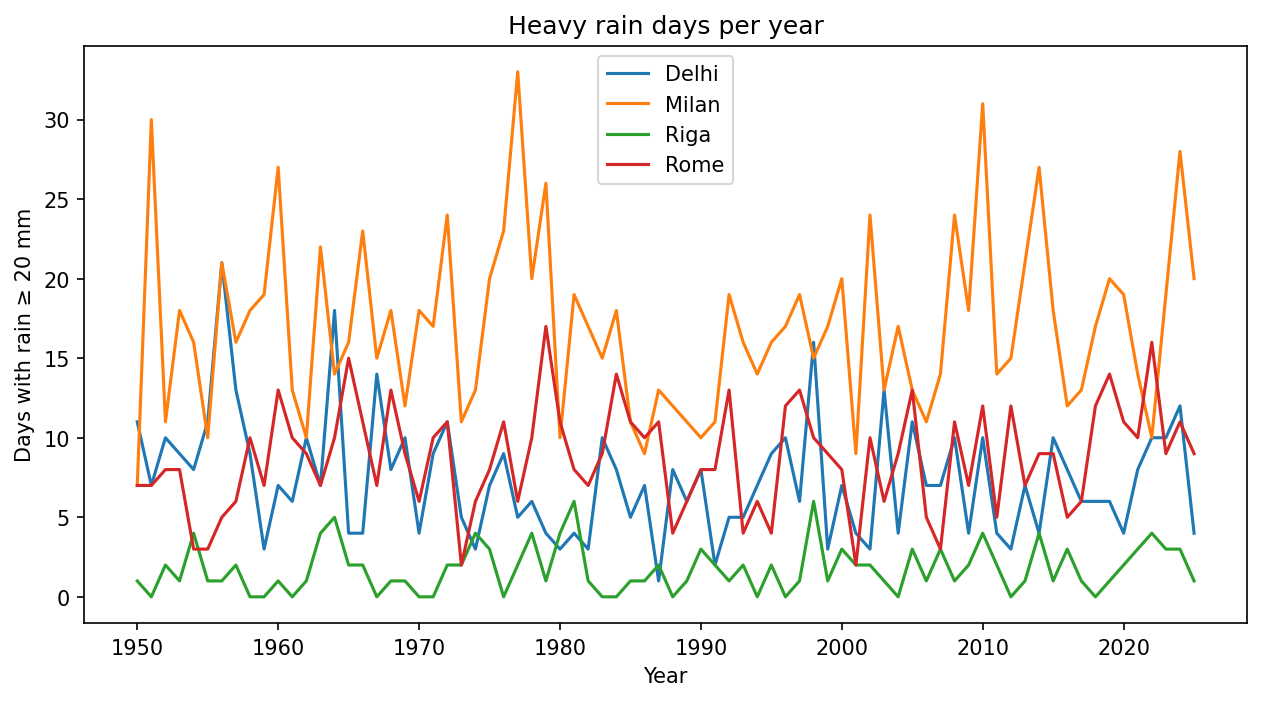
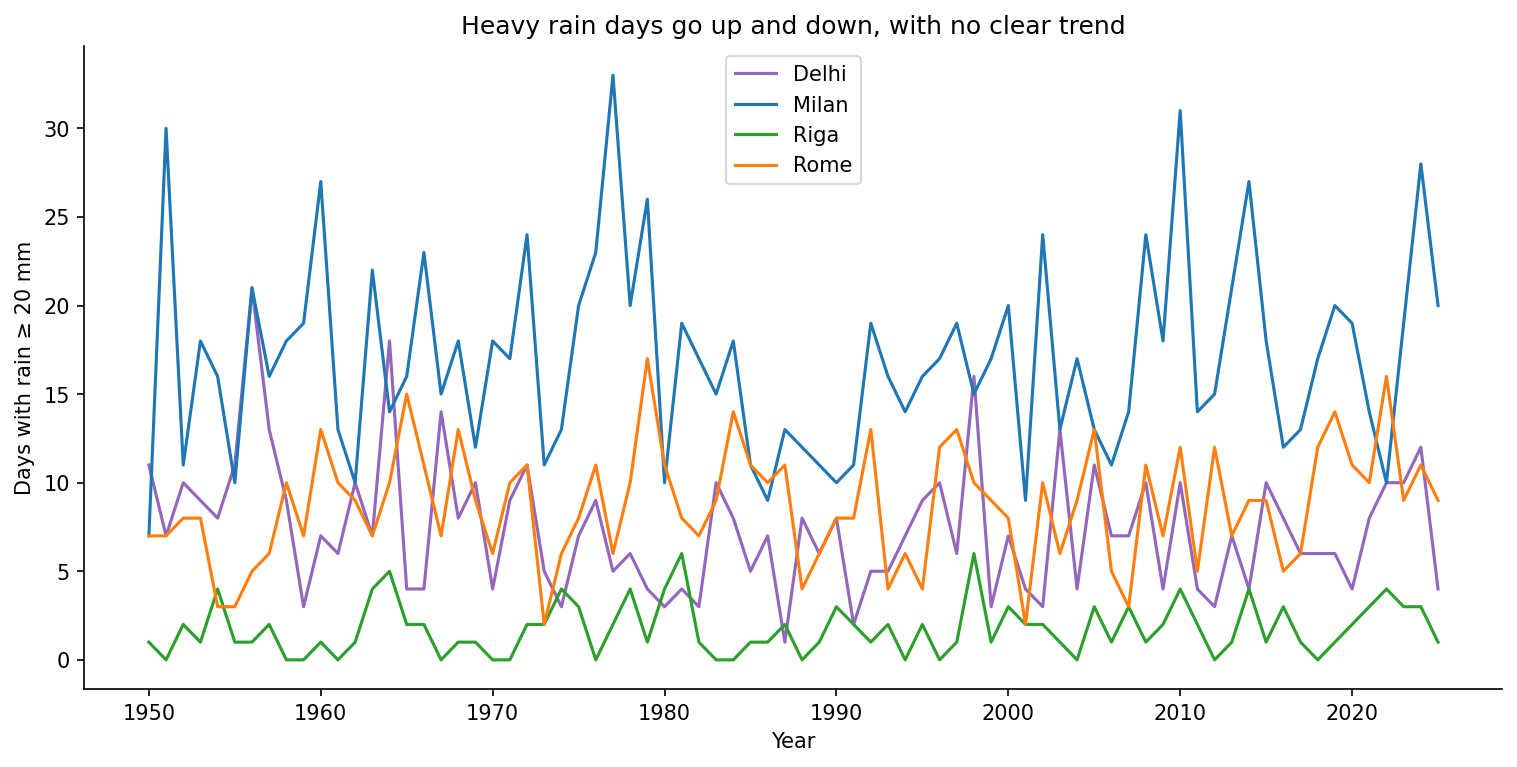
Improve charts: fixed city colours, message titles, cleaner frames

diff --git a/weather_report/plots.py b/weather_report/plots.py
@@ -5,11 +5,20 @@ import matplotlib.pyplot as plt
 from weather_report.analysis import BASELINE_END, BASELINE_START, trend_line
 from weather_report.process import HEAVY_RAIN_THRESHOLD, HOT_DAY_THRESHOLD
 
+# One fixed colour per city, the same in every chart.
+# These colours are easy to tell apart, also for colour-blind people.
+CITY_COLORS = {
+    "Milan": "tab:blue",
+    "Rome": "tab:orange",
+    "Riga": "tab:green",
+    "Delhi": "tab:purple",
+}
+
 MONTH_NAMES = ["Jan", "Feb", "Mar", "Apr", "May", "Jun",
                "Jul", "Aug", "Sep", "Oct", "Nov", "Dec"]
 
 
-def plot_temperature(yearly, cities):
+def plot_temperature(yearly, cities, title=None):
     """Line chart of yearly average temperature with a trend line per city.
 
     Parameters
@@ -18,26 +27,33 @@ def plot_temperature(yearly, cities):
         Yearly data from process.yearly_summary().
     cities : list of str
         Cities to show.
+    title : str, optional
+        Chart title. If not given, a neutral title is used.
 
     Returns
     -------
     matplotlib.figure.Figure
         The finished chart.
     """
-    fig, ax = plt.subplots(figsize=(10, 5))
+    fig, ax = plt.subplots(figsize=(10, 5), layout="constrained")
     for city in cities:
         data = yearly[yearly["city"] == city]
-        line = ax.plot(data["year"], data["temp_mean"], label=city, alpha=0.6)[0]
+        color = CITY_COLORS[city]
+        ax.plot(data["year"], data["temp_mean"], color=color, label=city,
+                alpha=0.6)
         ax.plot(data["year"], trend_line(data["year"], data["temp_mean"]),
-                color=line.get_color(), linestyle="--")
+                color=color, linestyle="--")
+    if title is None:
+        title = "Yearly average temperature"
     ax.set_xlabel("Year")
     ax.set_ylabel("Average temperature (°C)")
-    ax.set_title("Yearly average temperature (dashed = trend)")
+    ax.set_title(f"{title} (dashed line = trend)")
+    ax.spines[["top", "right"]].set_visible(False)
     ax.legend(loc="upper left", bbox_to_anchor=(1, 1))
     return fig
 
 
-def plot_anomaly(yearly, city, window=10):
+def plot_anomaly(yearly, city, window=10, title=None):
     """Bar chart of yearly temperature anomaly with a moving average line.
 
     Parameters
@@ -48,6 +64,8 @@ def plot_anomaly(yearly, city, window=10):
         City to show.
     window : int
         Number of years used for the moving average.
+    title : str, optional
+        Chart title. If not given, a neutral title is used.
 
     Returns
     -------
@@ -58,19 +76,22 @@ def plot_anomaly(yearly, city, window=10):
     colors = ["tab:red" if value > 0 else "tab:blue" for value in data["anomaly"]]
     moving_avg = data["anomaly"].rolling(window).mean()
 
-    fig, ax = plt.subplots(figsize=(10, 4))
+    fig, ax = plt.subplots(figsize=(10, 4), layout="constrained")
     ax.bar(data["year"], data["anomaly"], color=colors)
     ax.plot(data["year"], moving_avg, color="black", label=f"{window}-year average")
     ax.axhline(0, color="black", linewidth=0.8)
     ax.set_xlabel("Year")
     ax.set_ylabel("Anomaly (°C)")
-    ax.set_title(f"{city}: temperature compared to "
+    if title is None:
+        title = (f"{city}: temperature compared to the "
                  f"{BASELINE_START}-{BASELINE_END} average")
+    ax.set_title(title)
+    ax.spines[["top", "right"]].set_visible(False)
     ax.legend()
     return fig
 
 
-def plot_monthly_heatmap(monthly, city):
+def plot_monthly_heatmap(monthly, city, title=None):
     """Heatmap of each month of each year, compared to that month's average.
 
     Parameters
@@ -79,6 +100,8 @@ def plot_monthly_heatmap(monthly, city):
         Monthly data from process.monthly_summary().
     city : str
         City to show.
+    title : str, optional
+        Chart title. If not given, a neutral title is used.
 
     Returns
     -------
@@ -90,18 +113,22 @@ def plot_monthly_heatmap(monthly, city):
     table = table.sub(table.mean(axis=1), axis=0)
 
     first_year, last_year = table.columns.min(), table.columns.max()
-    fig, ax = plt.subplots(figsize=(12, 4))
+    fig, ax = plt.subplots(figsize=(12, 4), layout="constrained")
     image = ax.imshow(table, aspect="auto", cmap="coolwarm", vmin=-4, vmax=4,
                       extent=[first_year - 0.5, last_year + 0.5, 12.5, 0.5])
     fig.colorbar(image, ax=ax, label="°C vs month average")
     ax.set_yticks(range(1, 13))
     ax.set_yticklabels(MONTH_NAMES)
+    if title is None:
+        title = f"{city}: monthly temperature, warmer or colder than usual"
     ax.set_xlabel("Year")
-    ax.set_title(f"{city}: monthly temperature, warmer or colder than usual")
+    ax.set_ylabel("Month")
+    ax.set_title(title)
+    ax.spines[["top", "right"]].set_visible(False)
     return fig
 
 
-def plot_hot_days(yearly, cities):
+def plot_hot_days(yearly, cities, title=None):
     """Line chart of the number of hot days per year for each city.
 
     Parameters
@@ -110,24 +137,30 @@ def plot_hot_days(yearly, cities):
         Yearly data from process.yearly_summary().
     cities : list of str
         Cities to show.
+    title : str, optional
+        Chart title. If not given, a neutral title is used.
 
     Returns
     -------
     matplotlib.figure.Figure
         The finished chart.
     """
-    fig, ax = plt.subplots(figsize=(10, 5))
+    fig, ax = plt.subplots(figsize=(10, 5), layout="constrained")
     for city in cities:
         data = yearly[yearly["city"] == city]
-        ax.plot(data["year"], data["hot_days"], label=city)
+        ax.plot(data["year"], data["hot_days"], color=CITY_COLORS[city],
+                label=city)
+    if title is None:
+        title = "Hot days per year"
     ax.set_xlabel("Year")
-    ax.set_ylabel(f"Days with max temperature ≥ {HOT_DAY_THRESHOLD}°C")
-    ax.set_title("Hot days per year")
+    ax.set_ylabel(f"Days with max temperature ≥ {HOT_DAY_THRESHOLD} °C")
+    ax.set_title(title)
+    ax.spines[["top", "right"]].set_visible(False)
     ax.legend()
     return fig
 
 
-def plot_heavy_rain_days(yearly, cities):
+def plot_heavy_rain_days(yearly, cities, title=None):
     """Line chart of the number of heavy rain days per year for each city.
 
     Parameters
@@ -136,19 +169,25 @@ def plot_heavy_rain_days(yearly, cities):
         Yearly data from process.yearly_summary().
     cities : list of str
         Cities to show.
+    title : str, optional
+        Chart title. If not given, a neutral title is used.
 
     Returns
     -------
     matplotlib.figure.Figure
         The finished chart.
     """
-    fig, ax = plt.subplots(figsize=(10, 5))
+    fig, ax = plt.subplots(figsize=(10, 5), layout="constrained")
     for city in cities:
         data = yearly[yearly["city"] == city]
-        ax.plot(data["year"], data["heavy_rain_days"], label=city)
+        ax.plot(data["year"], data["heavy_rain_days"],
+                color=CITY_COLORS[city], label=city)
+    if title is None:
+        title = "Heavy rain days per year"
     ax.set_xlabel("Year")
     ax.set_ylabel(f"Days with rain ≥ {HEAVY_RAIN_THRESHOLD} mm")
-    ax.set_title("Heavy rain days per year")
+    ax.set_title(title)
+    ax.spines[["top", "right"]].set_visible(False)
     ax.legend()
     return fig
 
@@ -168,12 +207,25 @@ if __name__ == "__main__":
     output_dir = Path("figures")
     output_dir.mkdir(exist_ok=True)
 
+    # The saved charts always show all the data, so their titles can say
+    # the main message. I checked each message with the numbers.
     charts = {
-        "temperature.png": plot_temperature(yearly, cities),
-        "anomaly_milan.png": plot_anomaly(yearly, "Milan"),
-        "heatmap_milan.png": plot_monthly_heatmap(monthly, "Milan"),
-        "hot_days.png": plot_hot_days(yearly, cities),
-        "heavy_rain_days.png": plot_heavy_rain_days(yearly, cities),
+        "temperature.png": plot_temperature(
+            yearly, cities,
+            title="Milan, Rome and Riga get warmer, Delhi does not"),
+        "anomaly_milan.png": plot_anomaly(
+            yearly, "Milan",
+            title="Milan: every year since 1985 was warmer than "
+                  "the 1961-1990 average"),
+        "heatmap_milan.png": plot_monthly_heatmap(
+            monthly, "Milan",
+            title="Milan: since 1990, most months are warmer than usual"),
+        "hot_days.png": plot_hot_days(
+            yearly, cities,
+            title="Milan and Rome now have many more hot days than before"),
+        "heavy_rain_days.png": plot_heavy_rain_days(
+            yearly, cities,
+            title="Heavy rain days go up and down, with no clear trend"),
     }
     for filename, fig in charts.items():
         fig.savefig(output_dir / filename, dpi=150, bbox_inches="tight")
